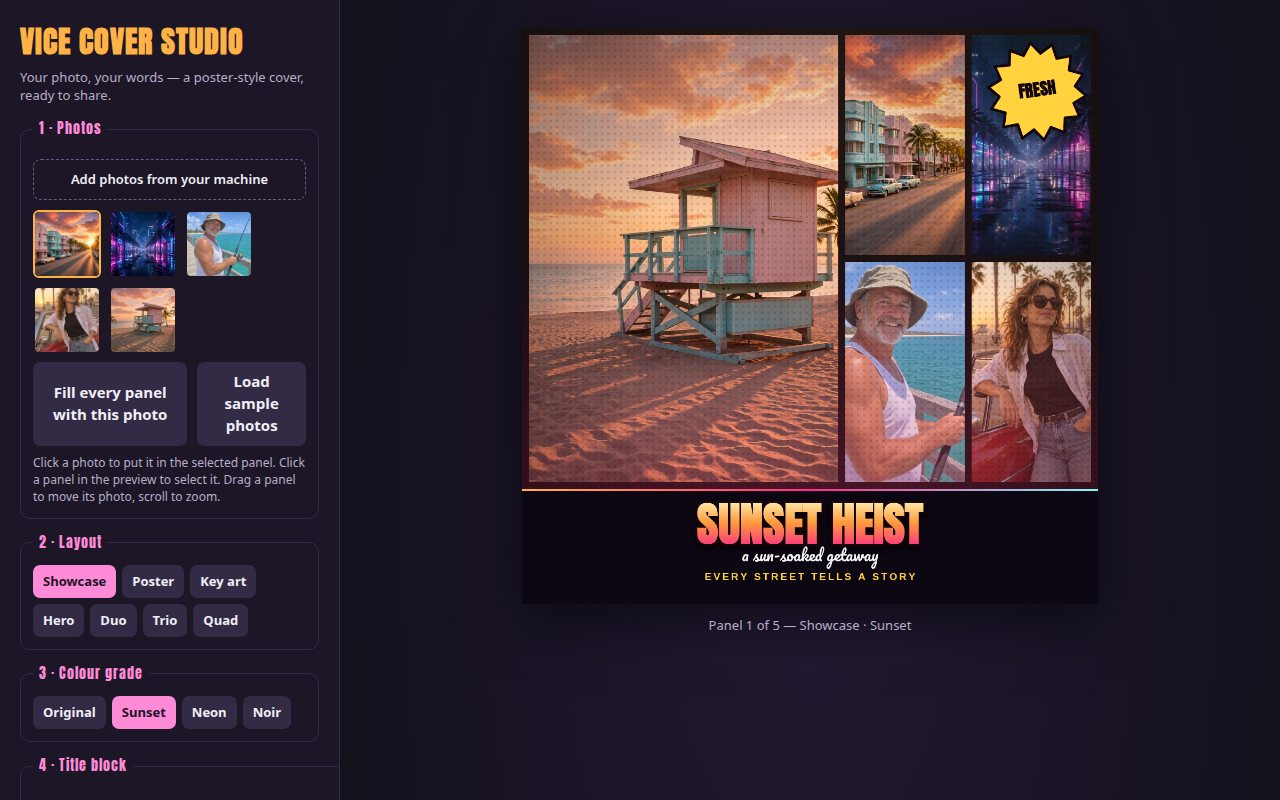
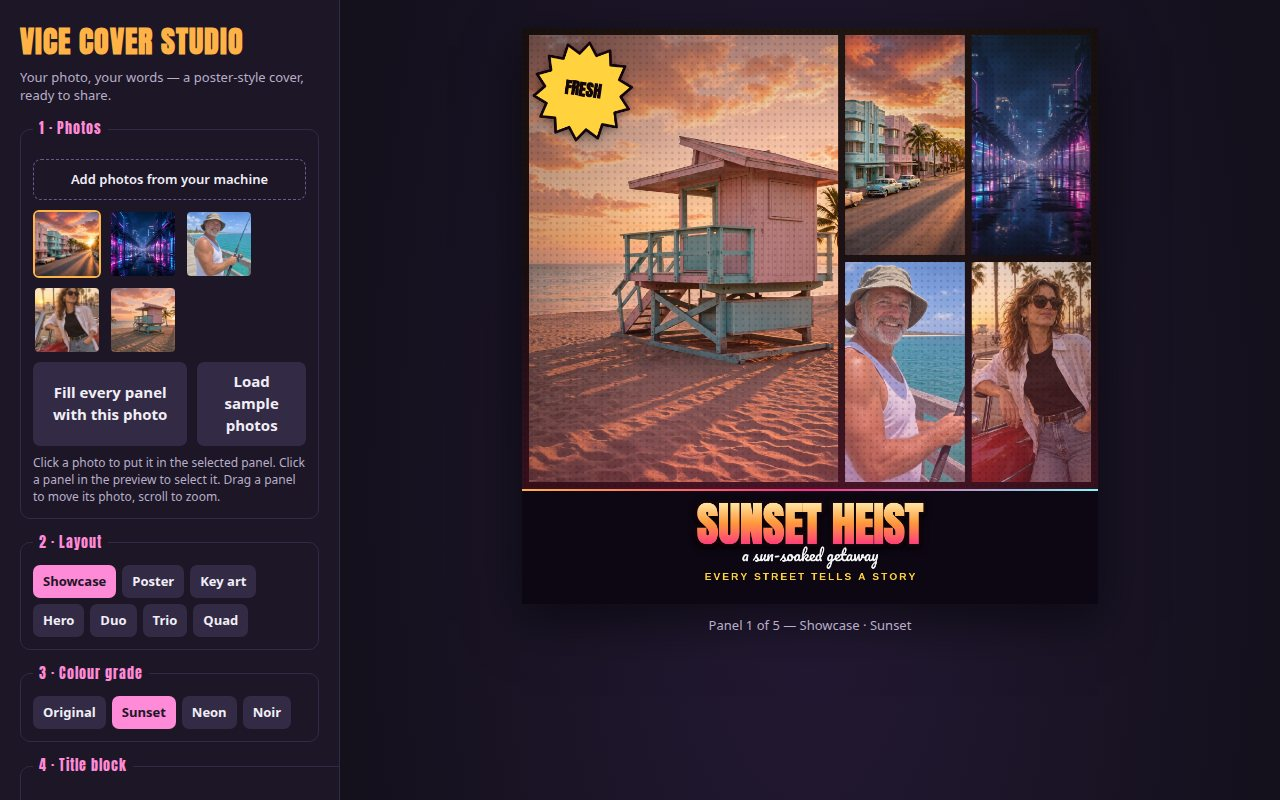
Fix: badge to top-left corner — no longer covers the hero portrait's face
In the key-art square cover the top-right starburst sat on the woman's
face. The top-right corner can hold a portrait in multi-panel layouts,
so the badge now lives in the top-left corner (over sky/street in the
usual shots, as the top entries do) with the tilt mirrored to lean in.
Screenshots re-rendered from the app's real exports; 4-cover.jpg now
fits the 256 KiB cap (quality stepped down by the shot script).

Changed region(s): [[0.4062, 0.0312, 0.5, 0.1875], [0.75, 0.0625, 0.8438, 0.1875]]

diff --git a/app/src/cover.js b/app/src/cover.js
@@ -300,17 +300,21 @@ export function drawTitleBlock(ctx, W, H, state, band) {
   }
 }
 
-// A yellow starburst badge with dark text, tilted, in the cover's top-right
-// corner. Pure canvas path, no image.
+// A yellow starburst badge with dark text, tilted, in the cover's top-left
+// corner. Top-left on purpose: in multi-panel layouts the top-right corner
+// can hold a portrait's face (the hero panel), while the top-left sits over
+// sky or street in the usual shots. The tilt is mirrored from the old
+// top-right placement so the starburst still leans into the cover.
+// Pure canvas path, no image.
 export function drawBadge(ctx, W, H, text) {
   const label = (text || '').trim().toUpperCase();
   if (!label) return;
   const r = Math.round(Math.min(W, H) * 0.085);
-  const cx = W - r - Math.round(W * 0.02);
+  const cx = r + Math.round(W * 0.02);
   const cy = r + Math.round(H * 0.025);
   ctx.save();
   ctx.translate(cx, cy);
-  ctx.rotate(-0.14);
+  ctx.rotate(0.14);
   ctx.beginPath();
   const spikes = 14;
   for (let i = 0; i < spikes * 2; i++) {

diff --git a/app/index.html b/app/index.html
@@ -80,7 +80,7 @@
       <label>Outline <span id="outlineVal">7%</span>
         <input id="outline" type="range" min="0" max="14" value="7">
       </label>
-      <p class="hint">Showcase and Poster put the title in a full-width strip under the photos; the other layouts draw it over the photos. The badge is the yellow starburst in the top corner.</p>
+      <p class="hint">Showcase and Poster put the title in a full-width strip under the photos; the other layouts draw it over the photos. The badge is the yellow starburst in the top-left corner.</p>
     </fieldset>
 
     <fieldset>
